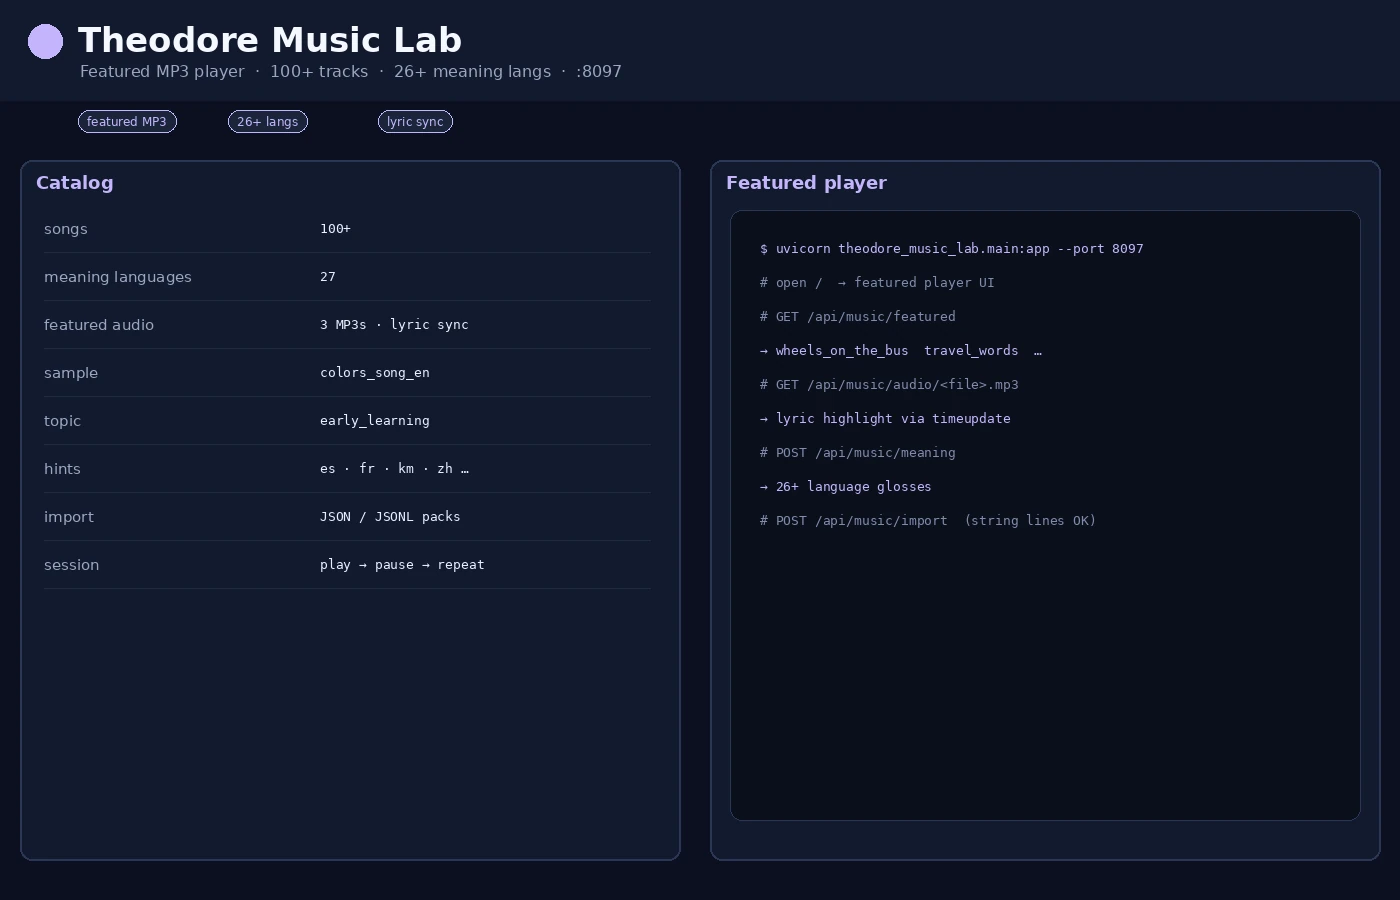
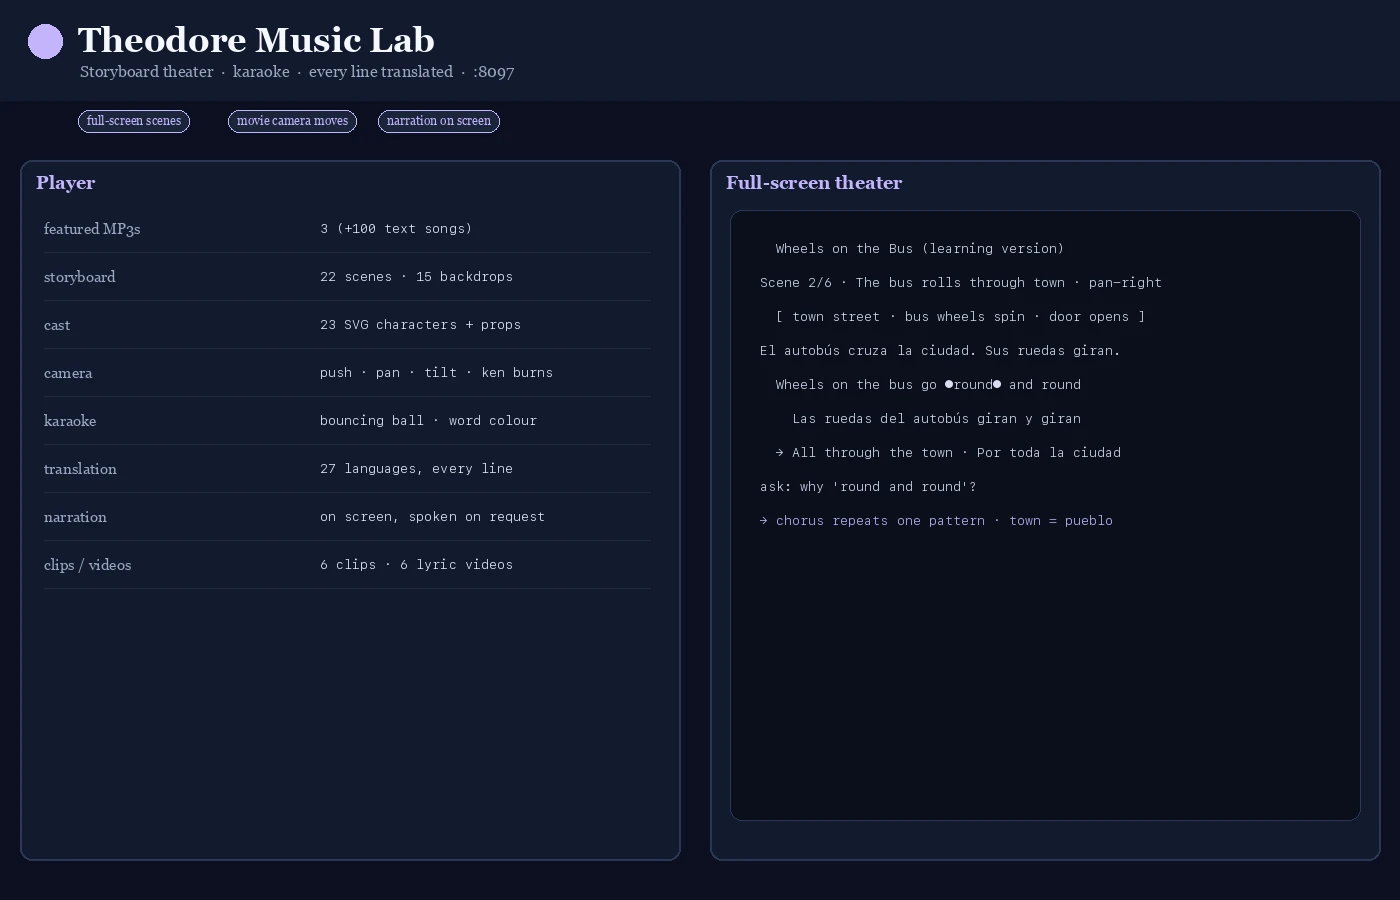
music lab: full-screen storyboard theater with characters, backdrops and camera moves
Each featured song now plays as a sequence of hand-authored scenes pinned to
lyric-line ranges, so the cuts land on line boundaries at any audio duration.
Scenes carry layered SVG backdrops, SVG characters that act, and one movie
camera move each; the caption bar keeps the scene narration, the sung line with
its own bouncing ball, the translation and the next line.

diff --git a/apps/web/app/lib/version.ts b/apps/web/app/lib/version.ts
@@ -2,6 +2,6 @@
 // APP_VERSION is kept in sync with the repo VERSION file by
 // scripts/build_release.py; NEXT_PUBLIC_APP_VERSION (set at build) overrides it
 // when present (e.g. CI builds), so the running app always shows the real build.
-const GENERATED_VERSION = "0.46.65";
+const GENERATED_VERSION = "0.46.66";
 export const APP_VERSION: string =
   process.env.NEXT_PUBLIC_APP_VERSION || GENERATED_VERSION;

diff --git a/apps/mobile/src/version.ts b/apps/mobile/src/version.ts
@@ -1,2 +1,2 @@
 /** Display/build version — kept in sync with repo VERSION by scripts/bump_pr_version.py */
-export const APP_VERSION = "0.46.65";
+export const APP_VERSION = "0.46.66";

diff --git a/scripts/render_lab_docs_screenshots.py b/scripts/render_lab_docs_screenshots.py
@@ -420,32 +420,32 @@ def render_music_lab() -> None:
         lab="theodore_music_lab",
         filename="theodore_music_lab.webp",
         title="Theodore Music Lab",
-        subtitle="Karaoke  ·  every line translated  ·  ask the AI while it plays  ·  :8097",
+        subtitle="Storyboard theater  ·  karaoke  ·  every line translated  ·  :8097",
         accent="#C4B5FD",
         left_title="Player",
         left_rows=[
             ("featured MP3s", "3 (+100 text songs)"),
+            ("storyboard", "22 scenes · 15 backdrops"),
+            ("cast", "23 SVG characters + props"),
+            ("camera", "push · pan · tilt · ken burns"),
             ("karaoke", "bouncing ball · word colour"),
-            ("timings", "line + word (syllable weighted)"),
-            ("sync nudge", "±0.25s"),
             ("translation", "27 languages, every line"),
-            ("tiers", "curated · cached · llm · lexicon"),
-            ("ask AI", "Grok or offline teacher"),
+            ("narration", "on screen, spoken on request"),
             ("clips / videos", "6 clips · 6 lyric videos"),
         ],
-        right_title="Now playing",
+        right_title="Full-screen theater",
         right_lines=[
             "♪ Wheels on the Bus (learning version)",
-            "  Wheels on the bus go round and round",
+            "Scene 2/6 · The bus rolls through town · pan-right",
+            "  [ town street · bus wheels spin · door opens ]",
+            "El autobús cruza la ciudad. Sus ruedas giran.",
+            "  Wheels on the bus go ●round● and round",
             "    Las ruedas del autobús giran y giran",
-            "  All through the town        [curated]",
-            "    Por toda la ciudad",
-            "  Open ●shut● the door goes   ← ball",
-            "    Se abre y se cierra la puerta",
+            "  → All through the town · Por toda la ciudad",
             "ask: why 'round and round'?",
             "→ chorus repeats one pattern · town = pueblo",
         ],
-        pills=["bouncing ball", "27 langs / line", "ask anytime"],
+        pills=["full-screen scenes", "movie camera moves", "narration on screen"],
     )
 
 

diff --git a/subrepos/theodore_music_lab/src/theodore_music_lab/music_page.py b/subrepos/theodore_music_lab/src/theodore_music_lab/music_page.py
@@ -177,13 +177,14 @@ _CSS = """
   .cap-ball.on { opacity:1; }
   .stage.theater .cap-ball, .stage.theater .cap-ball .dot { width:26px; height:26px; }
   .cap-narration { color:#cbd5e1; font-size:.86rem; margin-bottom:.3rem; }
-  .cap-line { font-size:1.4rem; font-weight:800; line-height:1.5; }
+  /* padding-top leaves the bouncing ball its own lane above the words */
+  .cap-line { font-size:1.4rem; font-weight:800; line-height:1.5; padding-top:1.4rem; }
   .cap-line .w { padding:.05rem .2rem; }
   .cap-tr { color:var(--good); font-size:1rem; }
   .cap-next { color:#94a3b8; font-size:.9rem; margin-top:.2rem; }
   .stage.theater .captions { padding:4rem 3rem 2.2rem; }
   .stage.theater .cap-narration { font-size:1.25rem; }
-  .stage.theater .cap-line { font-size:2.6rem; }
+  .stage.theater .cap-line { font-size:2.6rem; padding-top:2.2rem; }
   .stage.theater .cap-tr { font-size:1.6rem; }
   .stage.theater .cap-next { font-size:1.2rem; }
   .stage.theater .scene-tag { font-size:1rem; top:1.4rem; left:2rem; }
